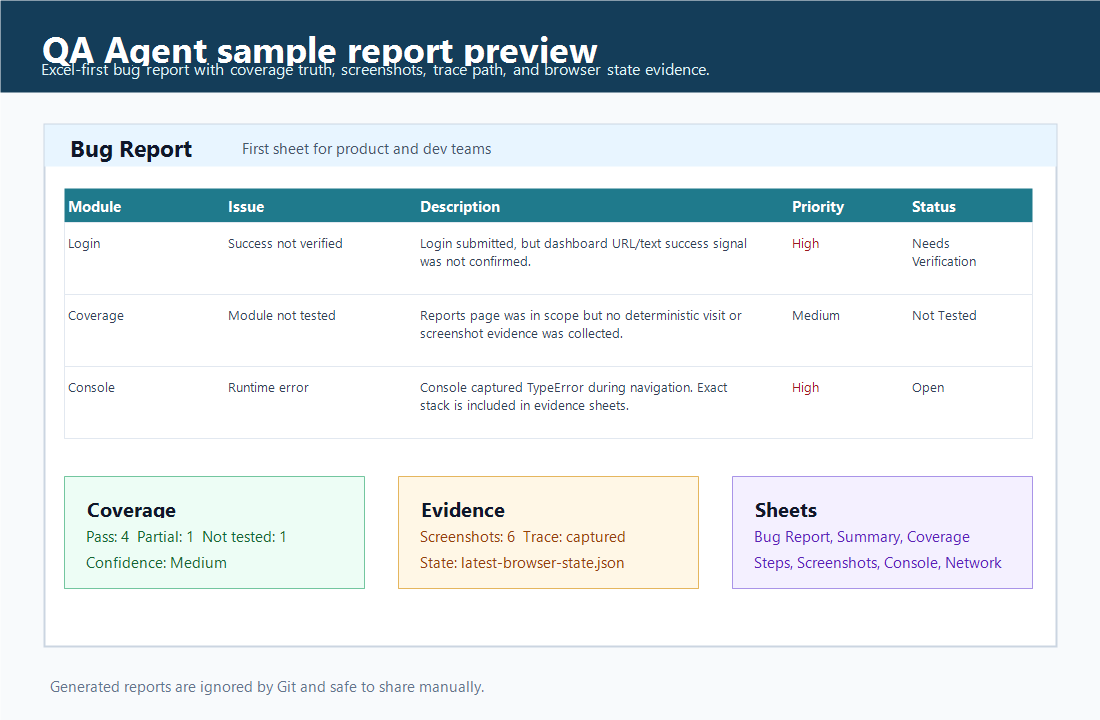
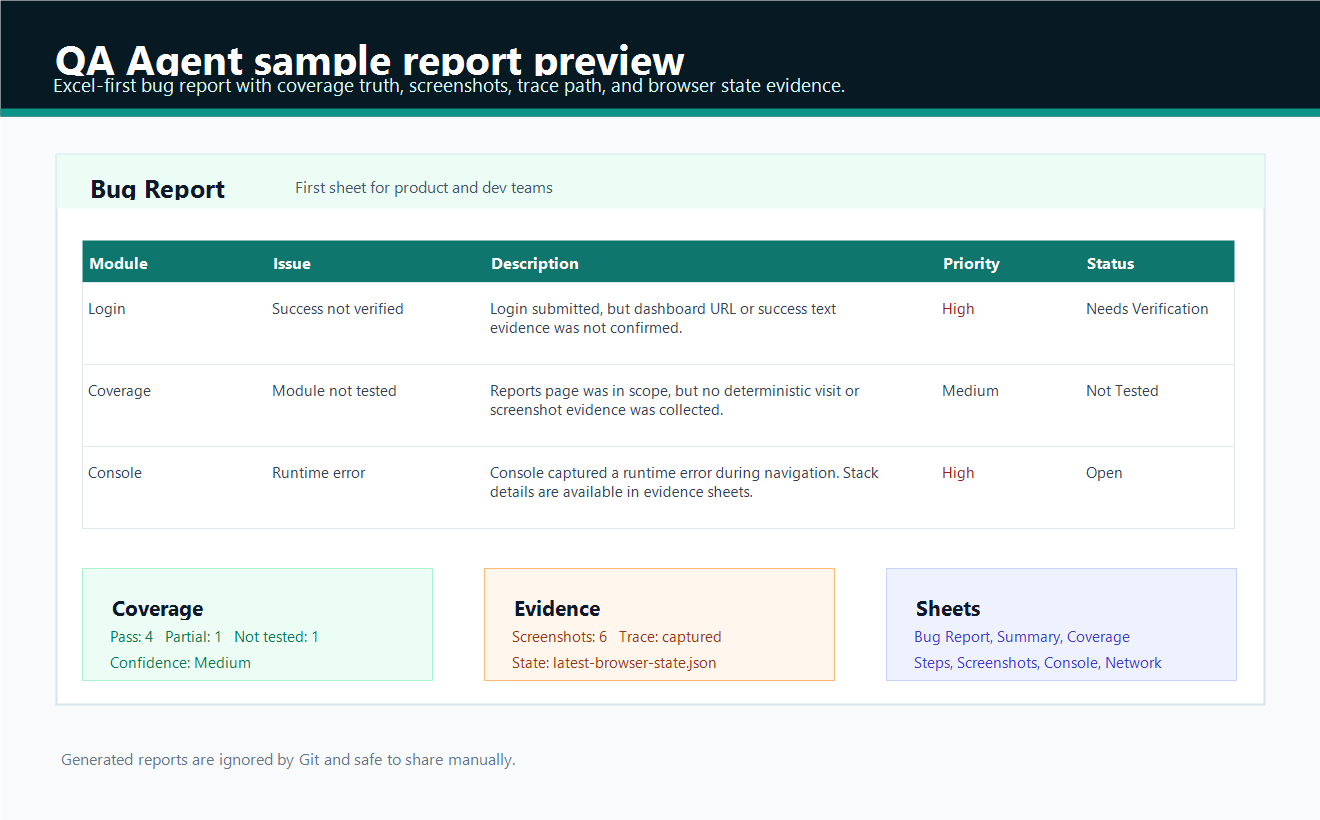
Polish README visuals and fix text layout

diff --git a/README.md b/README.md
@@ -18,7 +18,7 @@
 
 ## Demo
 
-![QA Agent demo](docs/assets/qa-agent-demo.gif)
+![QA Agent demo](docs/assets/qa-agent-demo.svg)
 
 ## Why Star This Repo
 
